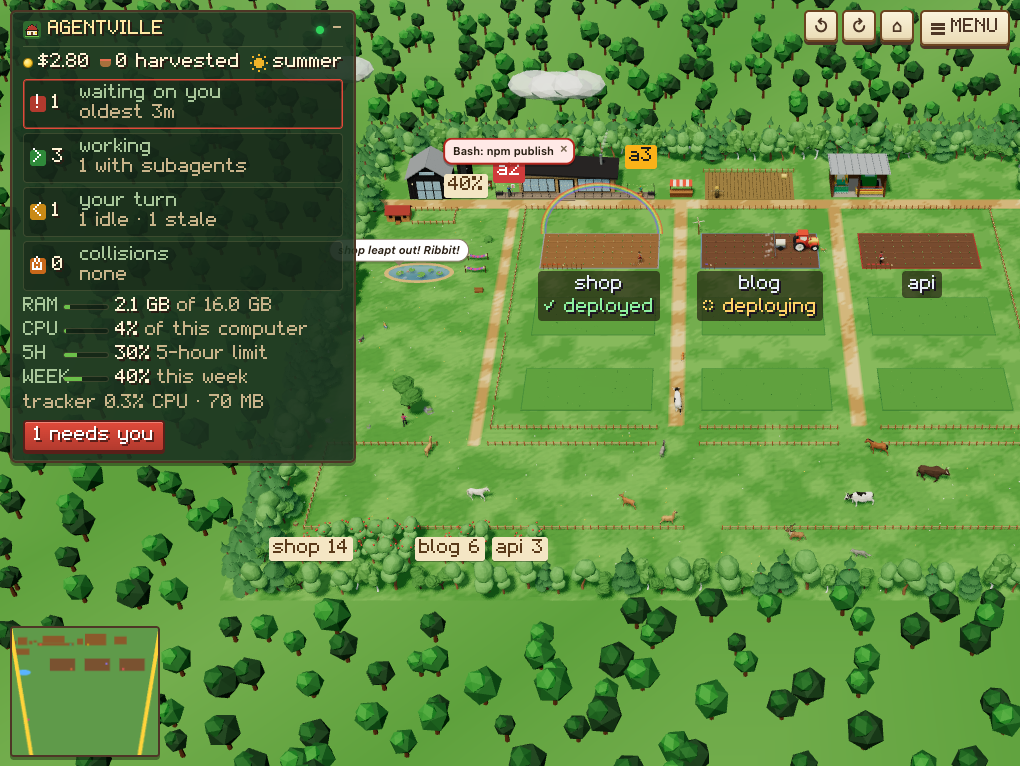
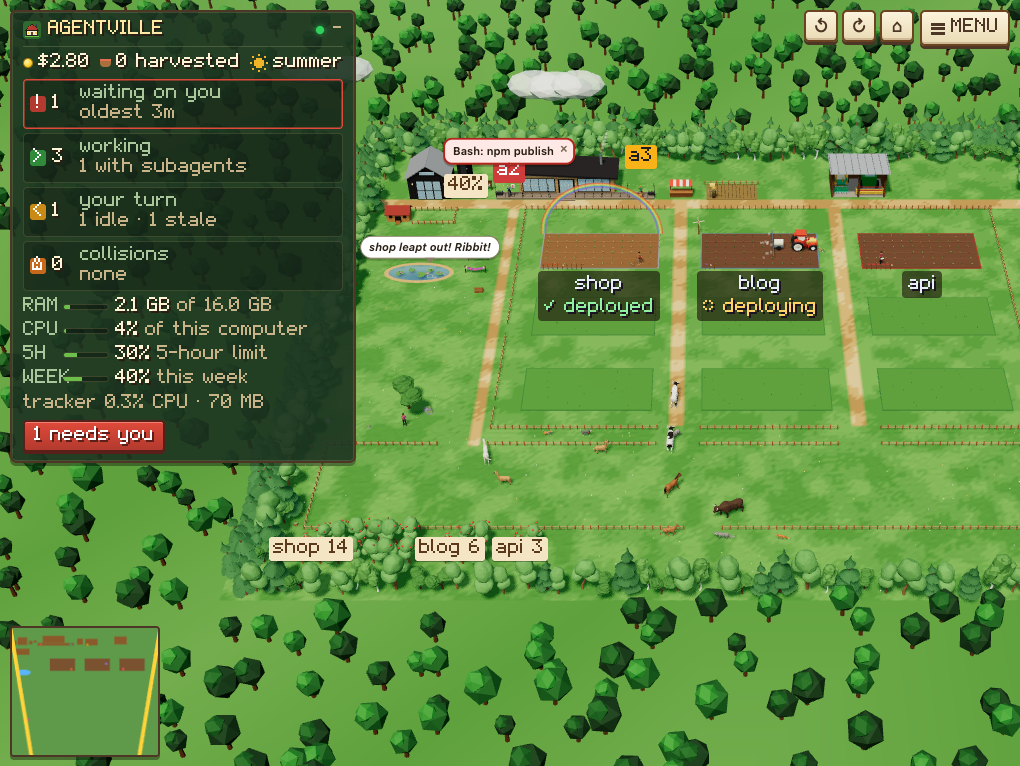
3D farm: a small scarecrow patch; the neighbour's shed has its own loader and combine
- The scarecrow patch, where stale farmers stand, is now about 8.5 × 4.5 m beside the market stall (it was
  15 × 8 m). It keeps the 2D farm's room of four, in two staggered rows so their name tags don't run
  together; the "+N stale" sign stands at it and the hay bale in its back corner.
- The neighbour farm's shed was empty unless one of its machines was out: it now has its own parked loader
  and combine, kept through rebuilds and freed when the second account goes. Each farm's combine leaves
  its shed only while that farm's combine is out (build/shed.js combinesOut).
- README and the three 3D farm pictures (docs/farm3d.png, farm3d-neighbour.png, farm3d-alive.png) taken again.

diff --git a/web/worlds/farm3d/build/shed.js b/web/worlds/farm3d/build/shed.js
@@ -1,19 +1,30 @@
 // The machine shed (spec 2026-10-14 §7): an open-fronted timber shed on the lane past the scarecrow patch, its metal
 // roof sloping to the back, holding Kenney's loader tractor and the combine as stock (so the farm has machines even when
-// none are out; the combine hides while it is out). A click on it opens who is out on a machine (machines.js
-// machinesDialog).
+// none are out; the combine hides while it is out). The neighbour farm's shed has its own. A click on it opens who is
+// out on a machine (machines.js machinesDialog).
 import { PX, SHED } from '../layout.js';
 import { disposeTree } from './util.js';
 
+/** The farms whose combine is out (oxOf: a machine's farm, 0 yours or the neighbour's offset): it is parked otherwise,
+ *  and still in the shed while it waits for its farmer. */
+export const combinesOut = (items, oxOf) => new Set(items.filter(i => i.vehicle === 'combine' && i.phase !== 'walking').map(oxOf));
+
 export function makeShed(THREE, mats, S, machines) {
   const group = new THREE.Group(), hitMat = new THREE.MeshBasicMaterial({ visible: false });
-  const stock = { loader: machines.stock('loader'), combine: machines.stock('combine') };
-  for (const m of Object.values(stock)) group.add(m.root);
   const sheds = new Map(); // ox → { g, hit }: yours (0), and the neighbour's (its offset on the map)
+  const stocks = new Map(); // ox → { loader, combine }: each shed's parked machines, made once and kept through rebuilds
+  function stockOf(ox) {
+    if (!stocks.has(ox)) {
+      const st = { loader: machines.stock('loader'), combine: machines.stock('combine') };
+      group.add(st.loader.root, st.combine.root);
+      stocks.set(ox, st);
+    }
+    return stocks.get(ox);
+  }
 
-  /** The shed for a ground H pixels tall, on the farm at ox (the neighbour's has no stock: its machines are its own). */
+  /** The shed for a ground H pixels tall, on the farm at ox, with its stock. */
   function build(H, ox = 0) {
-    drop(ox);
+    unbuild(ox);
     const g = new THREE.Group(), m = v => v / PX, c = S.at(SHED.x + ox + SHED.w / 2, SHED.y + SHED.h / 2, H), w = m(SHED.w), d = m(SHED.h), h = 4.4;
     const back = c.z - d / 2, front = c.z + d / 2;
     S.box(w, 0.1, d, '#9a9488', c.x, 0, c.z, g); // its floor
@@ -35,25 +46,34 @@ export function makeShed(THREE, mats, S, machines) {
     g.add(hit);
     group.add(g);
     sheds.set(ox, { g, hit });
-    if (ox) return;
     // the stock, parked facing the lane: the tractor in the left bay, the combine in the right
-    stock.loader.root.position.set(c.x - w / 2 + 1.7, 0.1, c.z - 0.2);
-    stock.combine.root.position.set(c.x + w / 2 - 2.6, 0.1, c.z - 0.6);
+    const st = stockOf(ox);
+    st.loader.root.position.set(c.x - w / 2 + 1.7, 0.1, c.z - 0.2);
+    st.combine.root.position.set(c.x + w / 2 - 2.6, 0.1, c.z - 0.6);
   }
-  /** The shed on the farm at ox goes (the neighbour's, when the second account goes). */
-  function drop(ox) {
+  function unbuild(ox) {
     const sh = sheds.get(ox);
     if (!sh) return;
     disposeTree(sh.g);
     sheds.delete(ox);
   }
+  /** The shed on the farm at ox goes, its stock too (the neighbour's, when the second account goes). */
+  function drop(ox) {
+    unbuild(ox);
+    const st = stocks.get(ox);
+    if (!st) return;
+    for (const m of [st.loader, st.combine]) { m.fx?.g.dispose(); m.root.removeFromParent(); } // their parts' geometry is shared
+    stocks.delete(ox);
+  }
   return {
     group, build, drop,
-    /** Each frame: the loader's model once it loads; the combine hides while it is out. */
-    tick(items) {
-      machines.restock(stock.loader);
-      stock.combine.root.visible = !items.some(i => i.vehicle === 'combine' && i.phase !== 'walking'); // waiting for its farmer, it is still in the shed
+    /** Each frame: the loaders' model once it loads; a farm's combine hides while it is out (oxOf: a machine's farm). */
+    tick(items, oxOf = () => 0) {
+      const out = combinesOut(items, oxOf);
+      for (const [ox, st] of stocks) { machines.restock(st.loader); st.combine.root.visible = !out.has(ox); }
     },
+    /** The machines parked in each shed (the check): { [ox]: { loader, combine } }, true where one stands. */
+    parked: () => Object.fromEntries([...sheds.keys()].map(ox => { const st = stocks.get(ox); return [ox, { loader: st?.loader.root.parent === group, combine: Boolean(st?.combine.root.visible) }]; })),
     /** What a click can find: each shed's box (userData.hit: 'shed', 'shed2'). */
     hits: () => [...sheds.values()].map(sh => sh.hit),
   };

diff --git a/web/worlds/farm3d/layout.js b/web/worlds/farm3d/layout.js
@@ -30,7 +30,8 @@ export const CART_RANK = Array.from({ length: 6 }, (_, i) => [W - 20 - i * 18, L
 export const SHED = { x: 600, y: 50, w: 72, h: 46 }, SHED_DOOR = [SHED.x + SHED.w / 2, LANE];
 /** The notice board (what your projects remember): by the porch's steps, between the silo and the deck, as the 2D farm has it. */
 export const BOARD = { x: 128, y: 74, w: 16, h: 10 };
-export const SCARECROWS = { x: 430, y: 36, w: 120 };
+/** The scarecrow patch, where stale farmers stand: small (8.5 × 4.5 m) beside the market stall, its back at y, its front at the porch's line. */
+export const SCARECROWS = { x: 432, y: 66, w: 68 };
 // The yard on the left: the henhouse and its run, the pond, the hammocks, the shade tree, a woodpile, bushes, rocks.
 export const HENHOUSE = { x: 10, y: 122 };
 export const POND = { cx: 70, cy: 262, rx: 40, ry: 17 };
@@ -112,7 +113,7 @@ export function slotTables(L) {
   return {
     desk: { cap: 3, at: i => [168 + 32 * i, PORCH_Y] }, // waiting on you: the porch's left
     turn: { cap: 3, at: i => [344 - 32 * i, PORCH_Y] }, // its turn ended: the porch's right
-    storage: { cap: 4, at: i => [446 + 30 * i, PORCH_Y] }, // stale: the scarecrows
+    storage: { cap: 4, at: i => [[442, PORCH_Y], [474, PORCH_Y], [458, PORCH_Y - 16], [490, PORCH_Y - 16]][i] }, // stale: the scarecrows, two staggered rows
     charge: { cap: 4, at: i => [[96, y], [64, y + 3], [128, y + 3], [32, y + 6]][i] }, // idle: under the shade tree
     meadow: { cap: MEADOW.length, at: i => MEADOW[i] },
     nap: { cap: NAPS.length, at: i => NAPS[i] },
@@ -120,7 +121,7 @@ export function slotTables(L) {
 }
 /** Where the "+N" signs stand for farmers beyond a place's room, and the words they say. */
 export const signsOf = L => ({
-  desk: [200, PORCH_Y - 34, 'waiting'], turn: [312, PORCH_Y - 34, 'your turn'], storage: [490, PORCH_Y - 34, 'stale'],
+  desk: [200, PORCH_Y - 34, 'waiting'], turn: [312, PORCH_Y - 34, 'your turn'], storage: [466, PORCH_Y - 40, 'stale'],
   charge: [SHADE.x, L.GRID.y1 + 10, 'idle'], meadow: [70, 182, 'in the meadow'], nap: [150, 222, 'napping'],
   more: [W - 80, L.GRID.y1 + 12, 'more'],
 });

diff --git a/web/worlds/farm3d/app.js b/web/worlds/farm3d/app.js
@@ -561,7 +561,7 @@ export function start({ el, opts, prefs }) {
     if (busy.join() !== busySig) { busySig = busy.join(); animals.setBusy(model.beds.filter(b => busy.includes(b.key)).map(b => ({ x0: b.x0, y0: b.y0 }))); }
     if (!opts.still) for (const it of machineItems) if (it.moving) for (const a of animals.world()) if (a.free && inPathOf(it, a.x, a.y)) animals.aside(a.i, it);
     machineMeshes.tick(machineItems, dt, opts.still, id => shirt.get(id) ?? '#9aa0a6');
-    shed.tick(machineItems);
+    shed.tick(machineItems, i => model.beds.find(b => b.key === i.field)?.ox ?? 0); // each farm's combine from its own shed
     // the combine's cut (it reports from the moment it is wanted, so its harvest waits for it) and the rows each plough
     // has turned, to the fields' seasons
     const cut = new Map(), now = performance.now();
@@ -729,6 +729,8 @@ export function start({ el, opts, prefs }) {
     tourNow: () => tour.force(),
     touring: () => tour.touring(),
     viewNow: () => rig.view(),
+    /** The machines parked in each shed: { [ox]: { loader, combine } }. */
+    shedStock: () => shed.parked(),
     /** The sound: 'off', 'waiting' (on, before a click) or 'running'. */
     sound: () => sound.state(),
     /** Holds the season shown (live, spring, summer, autumn, winter), as the Season switch does. */

diff --git a/web/worlds/farm3d/build/buildings.js b/web/worlds/farm3d/build/buildings.js
@@ -217,7 +217,7 @@ export function makeBuildings(THREE, mats, S) {
         stubble.forEach((p, i) => st.setMatrixAt(i, m4.makeTranslation(p.x, 0.18, p.z)));
         g.add(st);
         fence(sx0 - 2, sy0, sx0 + sw + 2, sy0);
-        const bale = S.cyl(0.42, 0.42, 0.9, '#e9c46a', 0, 0, 0, g, 12), hb = P(SCARECROWS.x + SCARECROWS.w - 12, SCARECROWS.y + 14);
+        const bale = S.cyl(0.42, 0.42, 0.9, '#e9c46a', 0, 0, 0, g, 12), hb = P(SCARECROWS.x + 8, SCARECROWS.y + 6); // in the back corner, clear of the back row
         bale.rotation.z = Math.PI / 2; bale.position.set(hb.x, 0.42, hb.z);
       }
 

diff --git a/README.md b/README.md
@@ -1320,8 +1320,9 @@ the creek, a cattle bridge joins the two pastures, and a sign at its gate gives 
   (its deploy's weather, its piles, its pennant, its greenhouse, a collision's rope) show on both, and
   either opens the repo's close-up. Both farms have the same rows of plots.
 - **Its barn** opens ＋ Session with the second account picked; its farmhouse lists who is on its porch;
-  its shed, its machines, which come out of it and work its fields (its truck goes up the road to town
-  between the farms, as yours does then, and its crates go to your market stall).
+  its shed, with a loader and a combine of its own parked in it, and its machines, which come out of it and
+  work its fields (its truck goes up the road to town between the farms, as yours does then, and its crates
+  go to your market stall).
 - **Animals**: the herd splits: the cows, the bull, the brown horse and the husky are yours, the alpacas,
   the donkey, the white horse and the Shiba the neighbour's, with a cow, a calf and a foal of its own
   (the young keep near their mothers). Now and then one wanders over to the other farm, by the lane's
@@ -1336,8 +1337,8 @@ the creek, a cattle bridge joins the two pastures, and a sign at its gate gives 
 
 **What it shows.** The farmstead (the black barn, the silo with your plan's week as grain and a lamp near
 the limit, the timber farmhouse and its deck, your porch, with string lights, the machine shed on the lane past the
-scarecrows), a field for each repo in the fenced grid, the yard with the henhouse, the pond (clear water over a muddy hollow, lily pads), the hammocks and the shade tree, the scarecrow
-patch, the pasture across the front, and the meadow and the forest running on all round.
+scarecrows), a field for each repo in the fenced grid, the yard with the henhouse, the pond (clear water over a muddy hollow, lily pads), the hammocks and the shade tree, the small
+scarecrow patch beside the market stall (room for four, in two staggered rows), the pasture across the front, and the meadow and the forest running on all round.
 - **Trees, bushes and rocks**: Quaternius's flat-coloured models (single models, CC0): leafy trees,
   birches and pines in the forest round the farm (pines further out), the shade tree and the orchard,
   the yard's bushes (some with berries) and mossy rocks, and stumps, logs, mushrooms and flowers under
@@ -1386,7 +1387,8 @@ patch, the pasture across the front, and the meadow and the forest running on al
   on it opens its farmer. With **Motion** off each machine stands at its work spot, its farmer in the
   seat (the combine's harvest done at once).
 - **The machine shed**: an open-fronted timber shed with a metal roof, Kenney's loader tractor and the
-  combine parked in it (the combine goes while it is out). Click it for who is out on which machine,
+  combine parked in it (the combine goes while it is out); the neighbour farm's shed has its own pair. Click it
+  for who is out on which machine,
   doing what and where.
 - **Light and seasons**: the sun crosses the sky by your clock and the windows and lamps glow at night;
   the season follows your 5-hour limit, with blossom in spring, orange leaves in autumn and snow in
